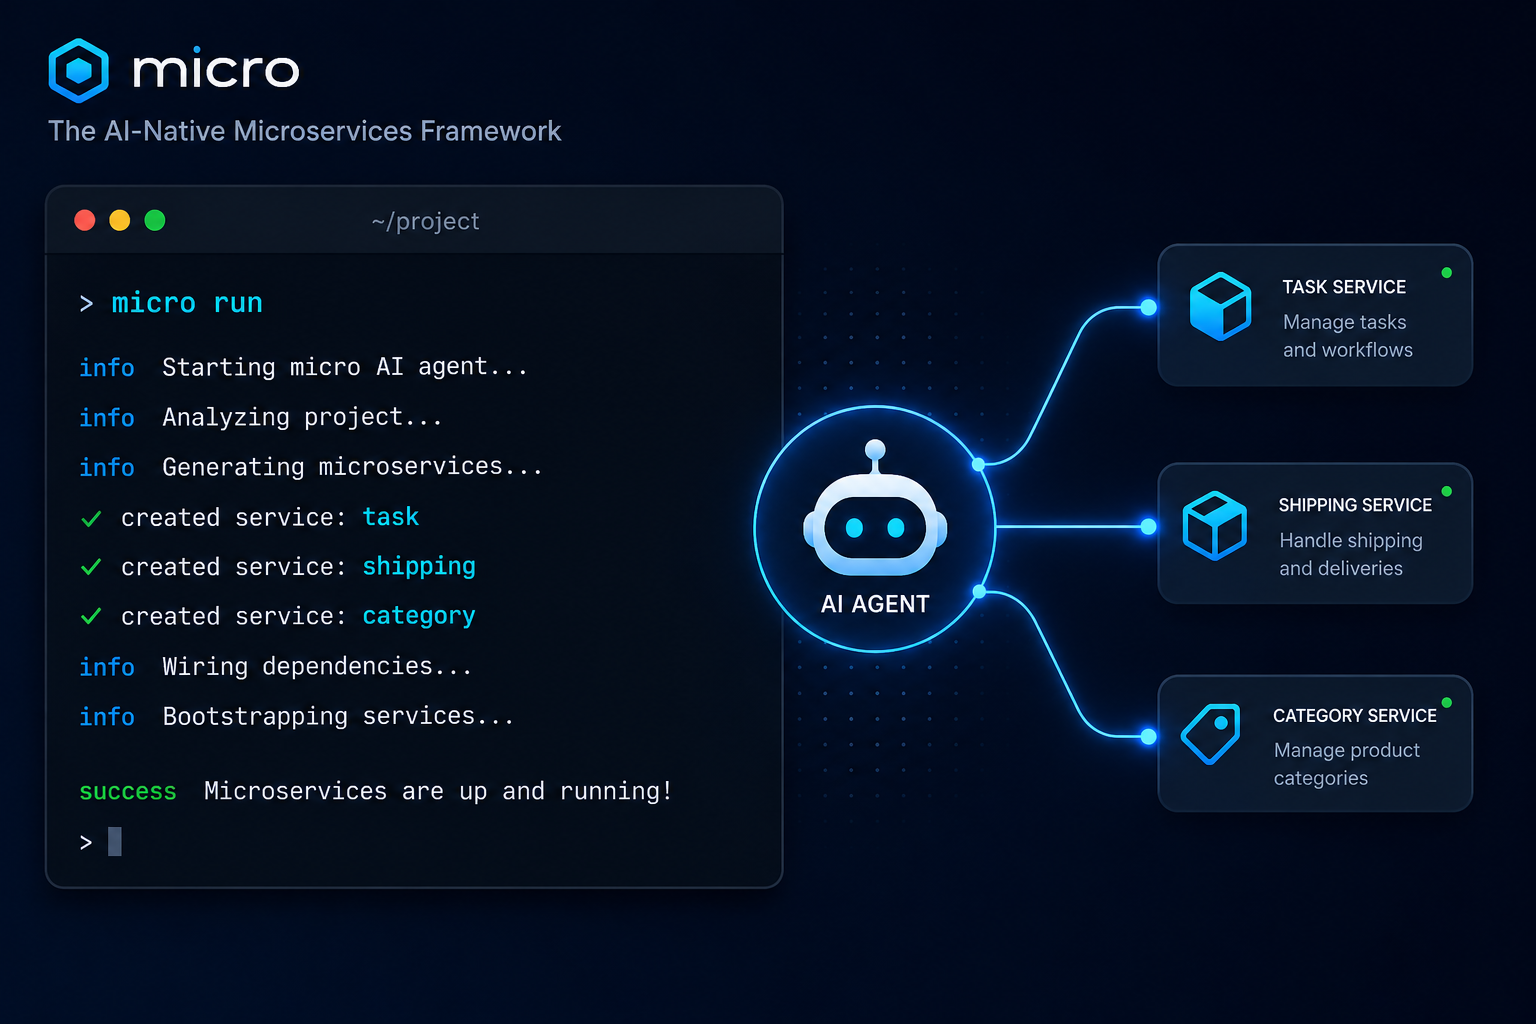
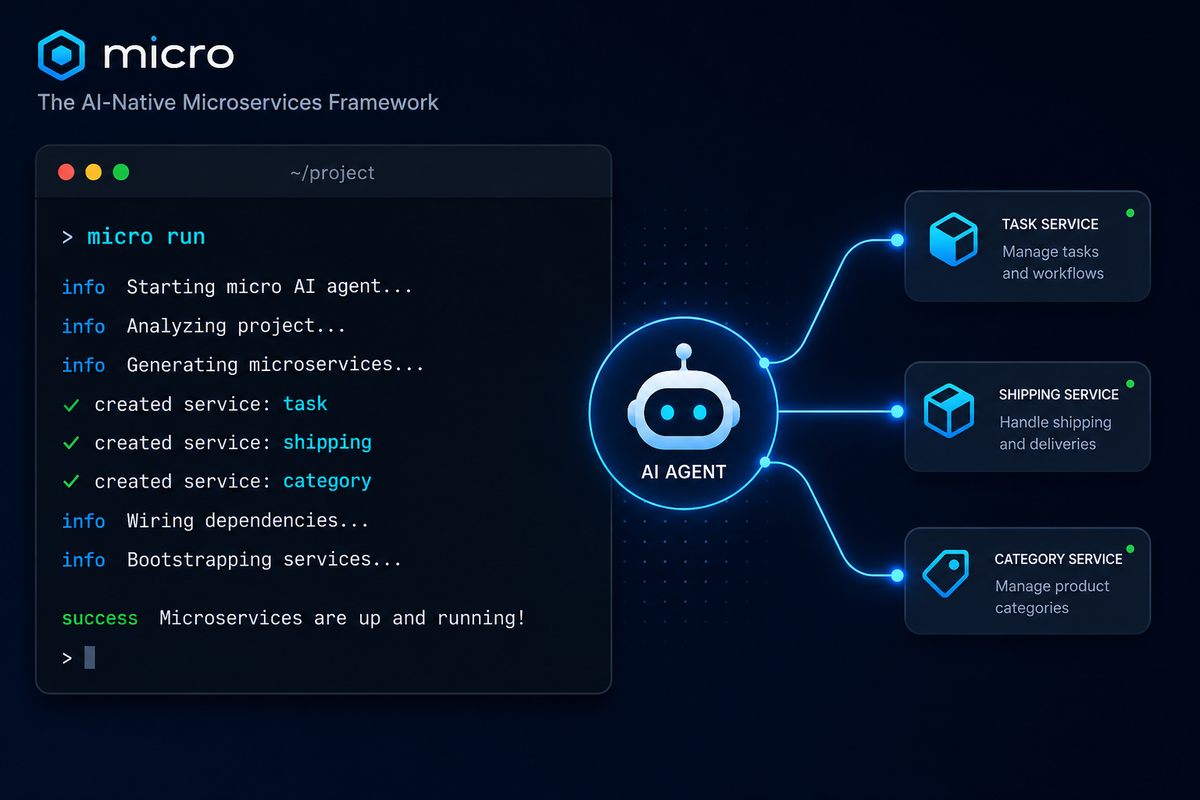
perf: compress hero image — 1.4MB to 80KB
Resized from 1536px to 1200px, converted to JPEG at quality 80.
80KB loads instantly vs 1.4MB stalling on slower connections.

https://claude.ai/code/session_01QTp4SshuVmLAvvEGJe4TJd

Changed region(s): [[0.8325, 0.4688, 0.8942, 0.5], [0.8942, 0.6875, 0.925, 0.7188], [0.2775, 0.3438, 0.3083, 0.375]]

diff --git a/internal/website/index.html b/internal/website/index.html
@@ -185,7 +185,7 @@
     </section>
 
     <section class="section">
-      <img src="/images/generated/hero.png" alt="Go Micro — AI agent orchestrating microservices" style="width: 100%; border-radius: 12px; box-shadow: 0 4px 24px rgba(0,0,0,0.08);" />
+      <img src="/images/generated/hero.jpg" alt="Go Micro — AI agent orchestrating microservices" style="width: 100%; border-radius: 12px; box-shadow: 0 4px 24px rgba(0,0,0,0.08);" />
     </section>
 
     <section class="section-alt">